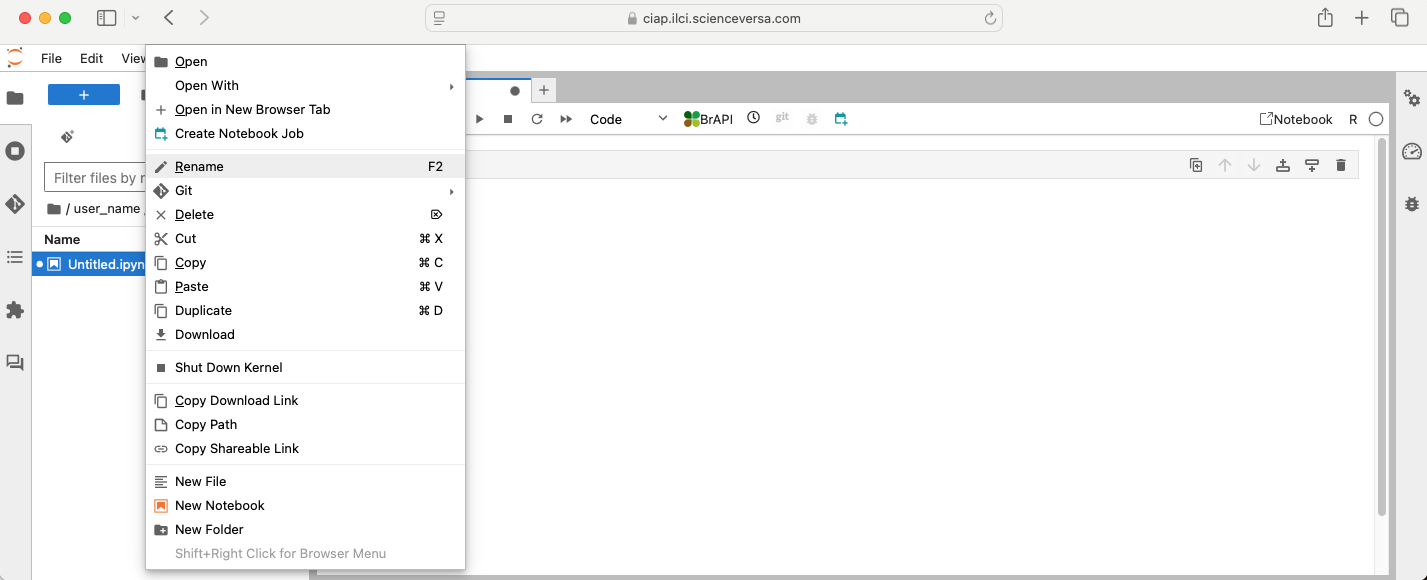
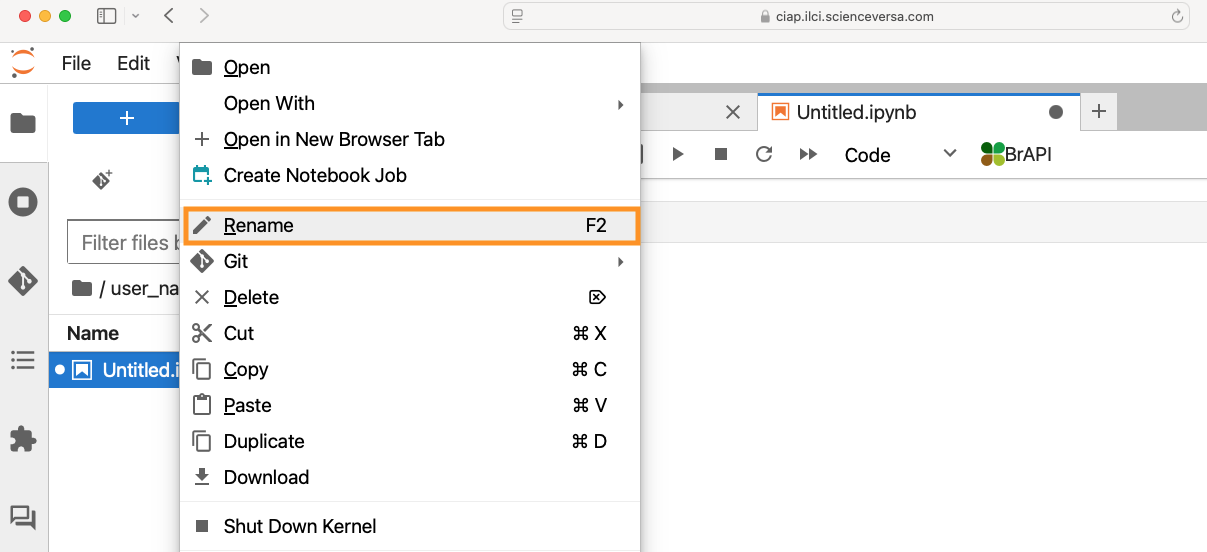
addressing feedback

diff --git a/docs/getting_started.md b/docs/getting_started.md
@@ -1,4 +1,4 @@
-# Getting started 
+# Onboarding  
 
 This document will describe the basic steps and skills necessary to start using the ILCI Crop Improvement Analytical Platform, including:
 
@@ -22,7 +22,7 @@ If logging in for the first time, navigate to the ILCI CIAP sign-in page:
 
 [CIAP Login](https://ciap.ilci.scienceversa.com){.md-button}
 
-Use the email address you used to register. When logging in for the first time create a new password. This will be your password moving forwardß. 
+Use the email address you used to register. When logging in for the first time, create a new password. This will be your password moving forwardß. 
 
 If you are an ILCI researcher and need an account, please contact the CIAP support team: 
 
@@ -30,7 +30,7 @@ If you are an ILCI researcher and need an account, please contact the CIAP suppo
 
 
 !!! warning
-    Keep your account name and password secure and never share your account information. Computational resources can be used by hackers for malicious and for-profit purposes, which are prohibited by USAID. Please help keep this resource secure for ILCI research purposes. Software installation and useage is monitored.
+    Keep your account name and password secure and never share your account information. Computational resources can be used by hackers for malicious and for-profit purposes, which are prohibited by USAID. Please help keep this resource secure for ILCI research purposes. **Software installation and usage is monitored.**
 
 
 ## Creating a directory system
@@ -42,7 +42,12 @@ When you first login to the CIAP, you will see a directory system on the left-ha
 JupyterHub Launcher page in the CIAP at start-up.
 ///
 
-Start by making a directory for yourself using your name as a label by selecting the add directory button :fontawesome-solid-folder-plus:. You can also right-click or ++ctrl++ click and select 'New Folder'. Moving forward always work within your named directory. By default this directory is private to you.
+Start by making a directory for yourself using your name as a label by selecting the add directory button (:fontawesome-solid-folder-plus:). You can also right-click or ++ctrl++ click and select 'New Folder'. Moving forward always work within your named directory. By default this directory is private to you.
+
+![Launcher](img/getting_started/make_Dir.png)
+/// caption
+Create a new directory to organize your work.
+///
 
 For organization and reproducibility set up a directory system within your named directory for every data project. Always include a README within each directory that describes the purpose of the directory and a description of the files found within the directory.
 
@@ -55,83 +60,84 @@ user_name/
 │   ├── raw_data/
 │   ├── output/
 │   ├── documents/
-│   └── README.txt
+│   └── README.md
 └── project_2_title
     ├── raw_data/
     ├── output/
     ├── documents/
-    └── README.txt
+    └── README.md
 ```
+
+!!! tip
+    See [this example](https://) of a well documented README file. 
 
 
 ## Navigating the Launcher 
 
-On the right-hand side of your screen is a JupyterHub Launcher. The Launcher provides quick links to features available to you within the platform. This includes Jupyter Notebooks preset to interpret R or Python languages. Simply click on the icon for the tool you would like to use.  
+On the right-hand side of your screen is a JupyterHub Launcher. The Launcher provides quick links to features available to you within the platform. Under the 'Norebook' section, Jupyter Notebooks preset to interpret R or Python languages, are available. Simply click on the icon for the tool you would like to use.  
 
 
 <div class="grid cards" markdown>
 
 ![](img/getting_started/R_nb.png){align=center}
 /// caption
-Jupyter Notebook preset to interpret R
+Use Jupyter Notebooks preset to interpret R, available under 'Notebook' on the Launcher.
 ///
 
 ![](img/getting_started/Python_nb.png){align=center}
 /// caption
-Jupyter Notebook preset to interpret Python
+Use Jupyter Notebooks preset to interpret Python, available under 'Notebook' on the Launcher.
 ///
 
 </div>
 
 
-We really like Jupyter Notebooks for documentation, but you can also spin up an R Studio session and use R scripts or R Markdown instead. You can also work directly in the terminal. This is useful to run well annotated, reproducible scripts.
+We really like Jupyter Notebooks for documentation, but under the 'Notebook' section of the Launcher, you can also spin up an R Studio session and use R scripts or R Markdown instead. 'Templates' and 'Shiny' are covered separately [here](https://). You can also work directly in the terminal, available under 'Other'. This is useful to run well annotated, reproducible scripts. 
 
 
 <div class="grid cards" markdown>
 
 ![](img/getting_started/Rstudio.png){align=center}
 /// caption
-Use R scripts or R Markdown in RStudio
+Use R scripts or R Markdown in RStudio, available under 'Notebook' on the Launcher.
 ///
 
 ![](img/getting_started/Terminal.png)  
 /// caption
-Run scripts in the terminal
+Run scripts in the terminal, available under 'Other' on the Launcher.
 ///
 
 </div>
 
-
 !!! tip
-    Navigate to the Launcher anytime using the menu bar at the top of the screen. Click 'File' --> 'New Launcher'. You can also use the keyboard shortcut: ++ctrl+cmd+l++.
+    Navigate to the Launcher anytime using the menu bar at the top of the screen. Click 'File' $\rightarrow$ 'New Launcher'. You can also use the keyboard shortcut: ++ctrl+cmd+l++.
 
 ## Using computational notebooks  
 
 Computational notebooks, such as Jupyter Notebooks, allow you to combine documentation, code, and results into one report. Code and results are recorded as the code is executed promoting reproducibility and communication of analysis, including how results were obtained.  
 
-#### Create a new notebook
-Navigate to your documents or similar directory. Create a notebook in the Launcher by selecting either the ‘R’ or ‘Python’ icon, as shown above. You can also create a notebook by right clicking in the directory window and selecting 'New Notebook' or by navigating to 'File' --> 'New' --> 'Notebook'.
-
-#### Set a coding language
-When creating a notebook from the Launcher the programming language is preset for you. Otherwise, once your notebook is open, you will need to navigate to the top right corner of the notebook to set the kernel, or interpreter, to R. Click on ‘Python 3 (ipykernel)’ and in the drop down menu and select ‘R’. 
-
-#### Save and name your notebook
-Save and name your notebook. You can do this via 'File' --> 'Save Notebook', or push the save button :fontawesome-solid-floppy-disk: on the top left hand corner of your notebook. You can rename by right clicking on the untitled notebook. Name your notebook something meaningful that will help you and others identify the analysis later. 
+### Preparing a notebook
 
 === "Create a new notebook" 
     [![new notebook]][new notebook]
+    **Create a new notebook**: Navigate to your documents or similar directory. Create a notebook in the Launcher by selecting either the ‘R’ or ‘Python’ icon, as shown above. You can also create a notebook by right clicking in the directory window and selecting 'New Notebook' or by navigating to 'File' $\rightarrow$ 'New' $\rightarrow$ 'Notebook'.
+    !!! tip
+        When creating a notebook from the Launcher the programming language is preset for you. Otherwise, once your notebook is open, you will need to navigate to the top right corner of the notebook to set the kernel, or interpreter, to R. Click on ‘Python 3 (ipykernel)’ and in the drop down menu and select ‘R’. 
 
 === "Set a coding language"
     [![kernel]][kernel]
+    **Set a coding language**: When creating a notebook from the Launcher the programming language is preset for you. Otherwise, once your notebook is open, you will need to navigate to the top right corner of the notebook to set the kernel, or interpreter, to R. Click on ‘Python 3 (ipykernel)’ and in the drop down menu and select ‘R’.
 
 === "Save and name your notebook"
     [![rename]][rename]
+    **Save and name your notebook**: You can save and name your notebook by naviagating to 'File' $\rightarrow$ 'Save Notebook', or push the save button :fontawesome-solid-floppy-disk: on the top left hand corner of your notebook. You can rename by right clicking on the untitled notebook. Name your notebook something meaningful that will help you and others identify the analysis later. 
 
   [new notebook]: img/getting_started/new_nb.png
   [kernel]: img/getting_started/rKernel.png
   [rename]: img/getting_started/rename.png
 
-#### Add new cells and start coding
+
+### Starting to code
 Add new cells with the plus button :fontawesome-solid-plus: in the upper left hand corner of the notebook to add cells for additional documentation and code. Click on the 'play' button :fontawesome-solid-play: at the top of your notebook to execute your cell or use the keyboard shortcut ++command+enter++ or ++ctrl+enter++. 
 
 === "Empty cell"
@@ -157,7 +163,9 @@ Add new cells with the plus button :fontawesome-solid-plus: in the upper left ha
 
 
 !!! tip
-    Sometimes you need to re-start your notebook: your screen freezes, you made a mistake, you forgot to filter your data, you want to re-run your notebook to check for reproducibility, etc. On the top banner, select 'Kernel' and from the drop down chose the option that fits your needs. You can restart the kernel and clear all ouput to re-run your notebook. Text in the cells will be saved, but will need to be re-executed.
+    Sometimes you need to restart your notebook: your screen freezes, you made a mistake, you forgot to filter your data, you want to re-run your notebook to check for reproducibility, etc. On the top banner, select 'Kernel' and from the drop down chose the option that fits your needs. You can restart the kernel and clear all ouput to re-run your notebook. Text in the cells will be saved, but will need to be re-executed.
+
+    ![](img/getting_started/restart_Kernel.png) 
 
 ## Importing data as flat files
 
